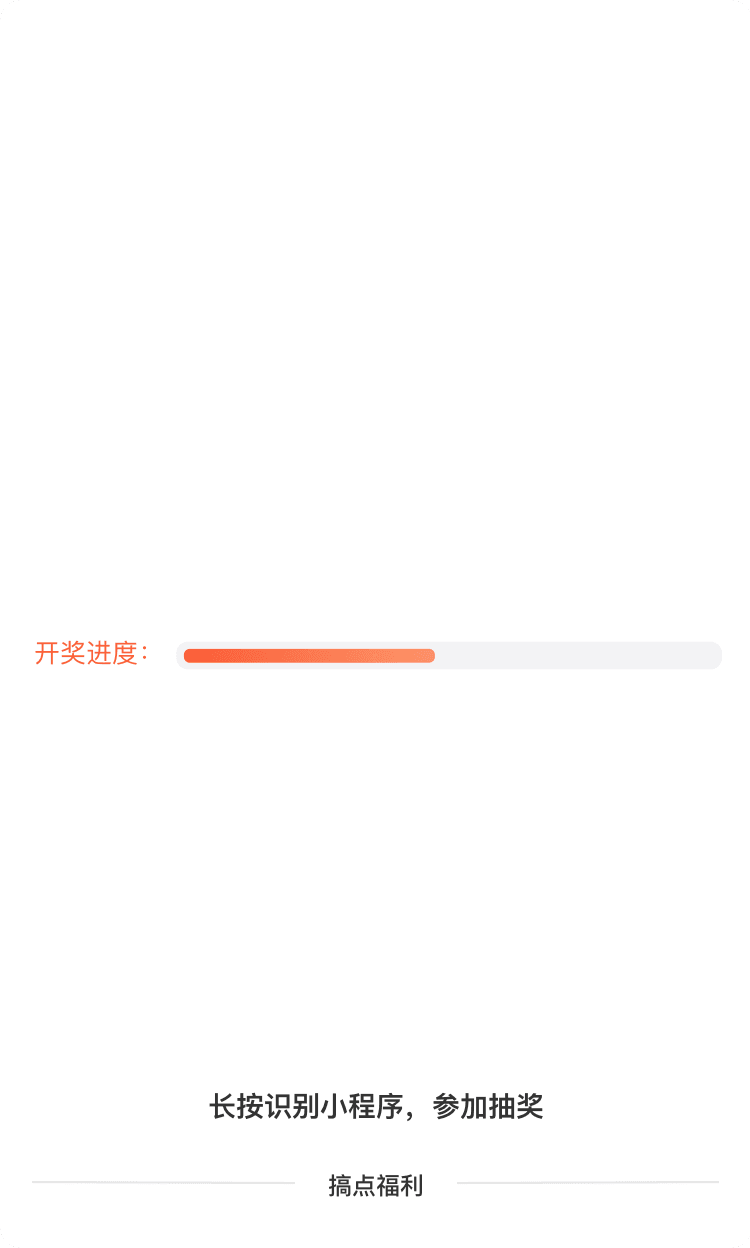
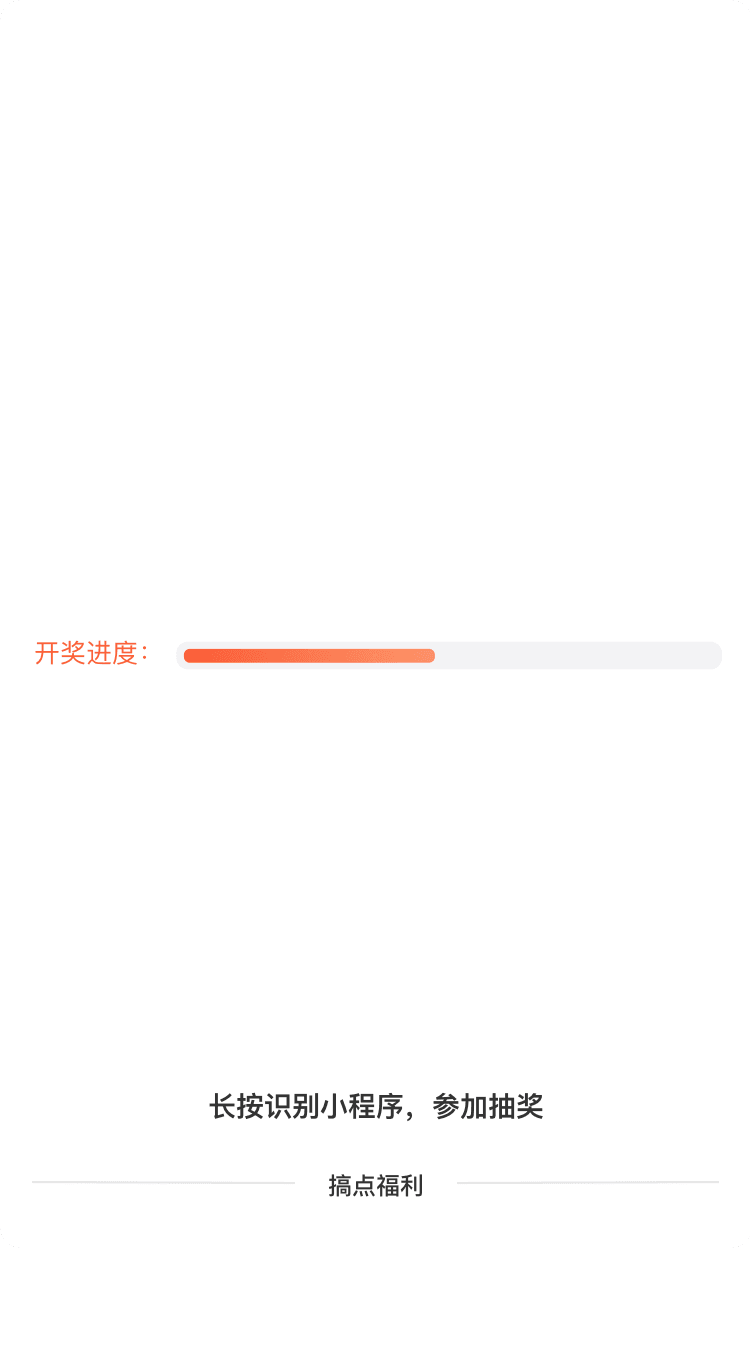
FIX

diff --git a/src/mixins/painter.js b/src/mixins/painter.js
@@ -11,15 +11,11 @@ export default class painterMixin extends wepy.mixin {
     let ctx = wepy.createCanvasContext('canvas', this)
     let scene = 'share_prize:' + this.commodityId + ':' + this.$getUserId()
     scene = service.wxacodeunlimit + '?scene=' + scene + '&page=' + this.shareUrl
-    const booksPromise = new Promise((resolve, reject) => {
-      ctx.save()
-      ctx.beginPath()
-      ctx.clip()
+    const bannerPromise = new Promise((resolve, reject) => {
       wepy.getImageInfo({
         src: this.titaList.banner_url,
         success: (res) => {
           console.log('下载完成')
-          ctx.restore()
           let obj = {
             titaList: that.titaList,
             path: res.path
@@ -28,34 +24,58 @@ export default class painterMixin extends wepy.mixin {
         }
       })
     })
-    const userPromise = new Promise((resolve, reject) => {
-      ctx.save()
-      ctx.beginPath()
-      ctx.clip()
+    const codePromise = new Promise((resolve, reject) => {
       wepy.getImageInfo({
         src: scene,
         success: (res) => {
           console.log('下载完成')
-          ctx.restore()
           resolve(res.path)
         }
       })
     })
-    Promise.all([booksPromise, userPromise]).then((result) => {
-      // ctx.save()
-      // ctx.beginPath()
-      // ctx.clip()
-      // ctx.arc(200 / 2 + left, 200 / 2 + top, 200 / 2, 0, Math.PI * 2, false)
-      // ctx.clip()
-      ctx.drawImage('../assets/images/painter/cavnasImg.png', 0, 0, 750, 1248)
+    const portraitPromise = new Promise((resolve, reject) => {
+      wepy.getImageInfo({
+        src: this.titaList.user_avatar_url,
+        success: (res) => {
+          console.log('下载完成')
+          resolve(res.path)
+        }
+      })
+    })
+    Promise.all([bannerPromise, codePromise, portraitPromise]).then((result) => {
+      // 绘制底色和背景
+      ctx.drawImage('../assets/images/painter/cavnasImg.png', 0, 0, 750, 1368)
+      // 绘制banner图
       ctx.drawImage(result[0].path, 0, 0, 750, 450)
+      // 绘制小程序二维码
       ctx.drawImage(result[1], 225, 730, 300, 300)
+      // 绘制商品名
       ctx.setFontSize(40)
       ctx.setFillStyle("#333333")
       ctx.fillText(result[0].titaList.name, 30, 530)
+      // 绘制已有xxx人参加
       ctx.setFontSize(30)
       ctx.setFillStyle("#FF4C21")
       ctx.fillText('已有' + result[0].titaList.prize_draws_count + '人次参加', 30, 590)
+      // 绘制一段话
+      ctx.setFontSize(32)
+      ctx.setFillStyle("#0B0A0A")
+      let paragraph = '我是' + result[0].titaList.user_nick_name + '邀你一起免费抽奖'
+      if (paragraph.length > 17) {
+        ctx.fillText(paragraph.substr(0, 17), 160, 1272)
+        ctx.fillText(paragraph.substr(17, 17), 160, 1315)
+      } else {
+        ctx.fillText(paragraph, 160, 1300)
+      }
+      // 开始绘制头像
+      ctx.beginPath()
+      // 绘制圆形
+      ctx.arc(90, 1270, 60, 0, 2 * Math.PI)
+      // 切边
+      ctx.clip()
+      // 显示绘制圆的范围 测试用
+      // ctx.fill()
+      ctx.drawImage(result[2], 32, 1220, 108, 108)
       ctx.draw()
     })
 
@@ -63,18 +83,9 @@ export default class painterMixin extends wepy.mixin {
       wepy.canvasToTempFilePath({
         canvasId: 'canvas',
         success: function (res) {
-          // that.setData({
-          //   imagePath: tempFilePath,
-          //   canvasHidden: false,
-          //   maskHidden: true
-          // })
 　　　　　　//将生成的图片放入到《image》标签里
           that.canvasImg = res.tempFilePath
           console.log(that.canvasImg)
-          // wx.previewImage({
-          //   current: img, // 当前显示图片的http链接
-          //   urls: [img] // 需要预览的图片http链接列表
-          // })
         },
         fail: function (res) {
           // console.log(res)
